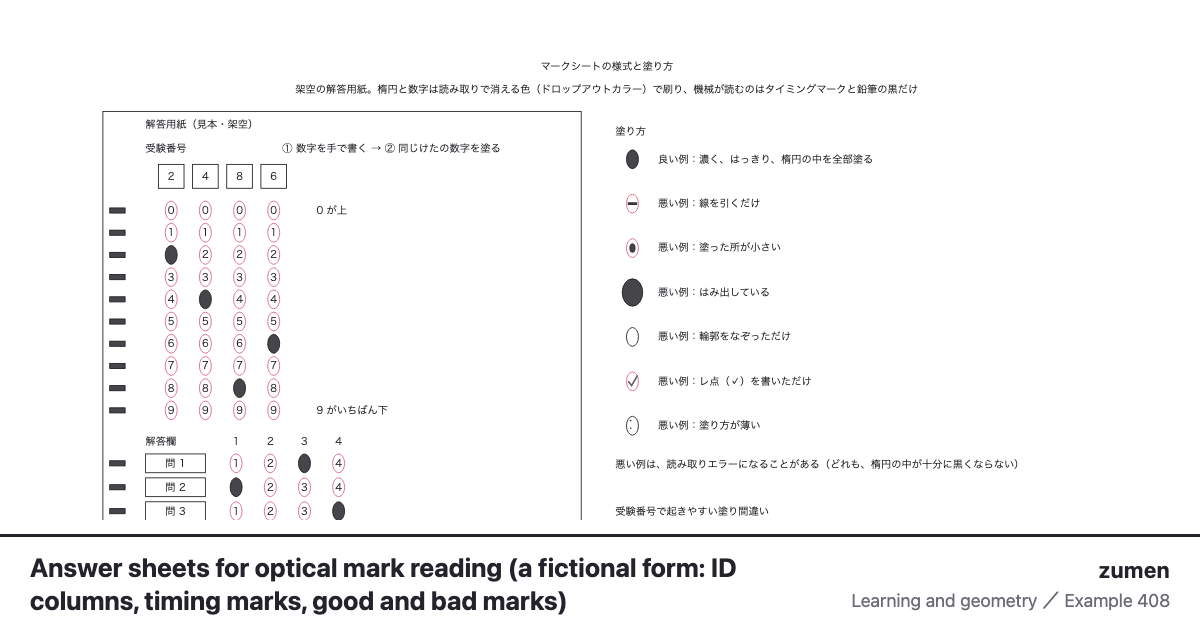
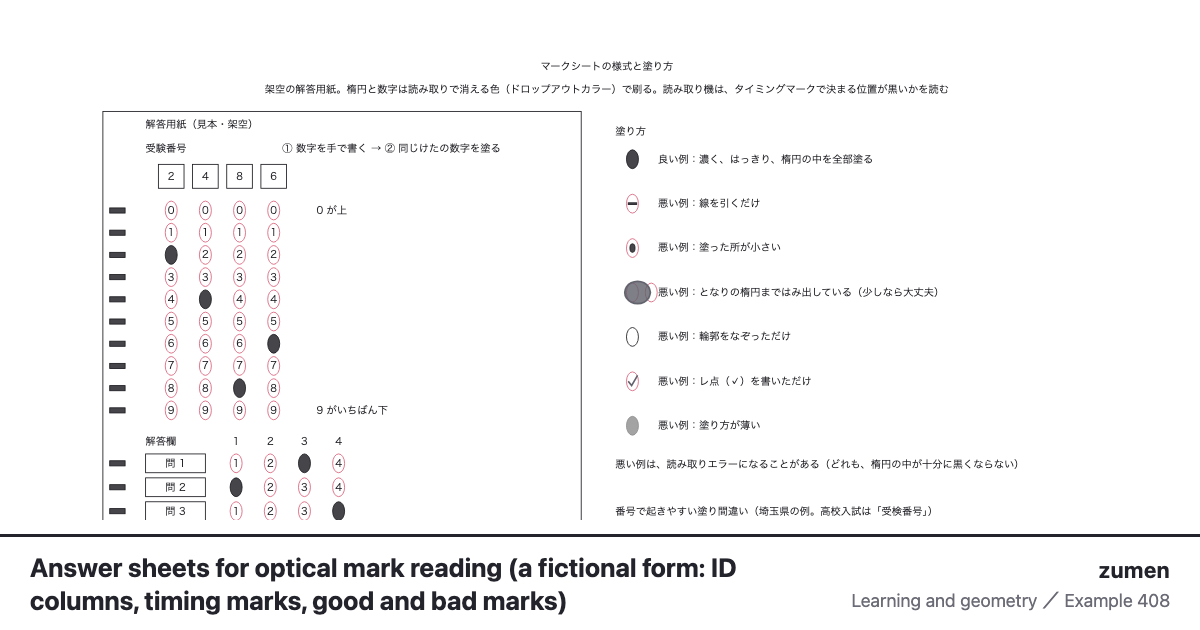
fix(見本): 408 を見直し —— シャープペンシルはマークに使わない・受検番号
共通テストはシャープペンシルをマークに使わない（メモ・計算のみ）。塗り間違い 4 例は埼玉県の
高校入試の「受検番号」の例と明記し、「別のけた」を原文どおりに。読み取り機が読むのはタイミングマークで
決まる位置の黒、はみ出しは隣の楕円まで（少しなら大丈夫：東京都）、薄いは灰色の塗り。
共通テストの受験番号は数字と英字を塗る行を足した。特許の出典から色の記述を外した。

Claude-Session: https://claude.ai/code/session_01SsuPBZV9YaAZ9NJNDHvP2H

diff --git a/site/all/index.html b/site/all/index.html
@@ -275,7 +275,7 @@
       <li data-name="400 大圏航路と等角航路（地図の直線は最短とは限らない） Tokyo to New York two ways on two projections: on Mercator the shortest great-circle route arcs up over Alaska while the constant-bearing rhumb line is straight; on an azimuthal equidistant map centred on Tokyo the great circle is the straight line and the rhumb line bends. About 10,850 km against 12,780 km. 学び・図学"><a href="../g/400/"><img src="../gallery/400-%E5%A4%A7%E5%9C%8F%E8%88%AA%E8%B7%AF%E3%81%A8%E7%AD%89%E8%A7%92%E8%88%AA%E8%B7%AF-%E6%9D%B1%E4%BA%AC%E3%81%8B%E3%82%89%E3%83%8B%E3%83%A5%E3%83%BC%E3%83%A8%E3%83%BC%E3%82%AF.svg" alt="東京からニューヨークへの 2 つの道を 2 つの図法で並べた図。左のメルカトル図法では、最短の大圏航路（赤）がアラスカの上まで北へ弧を描き、方位を一定に保つ等角航路（青の点線）がまっすぐな線になる。右の東京中心の正距方位図法では逆に、大圏航路が東京から引いた直線になり、等角航路が曲がる。5,000km・10,000km の距離の輪つき。下に長さ（約 10,850km と約 12,780km）と東京を出る向きの表" width="1089" height="828" loading="lazy" decoding="async"><span>大圏航路と等角航路（地図の直線は最短とは限らない）</span></a></li>
       <li data-name="402 時差の世界地図（経度の帯と、国が決めた時） Every 15 degrees of longitude is an hour, but clocks follow borders. Twenty cities from the IANA tz database sit on the nominal bands: Seoul keeps Japan's 135-degree time, all of China keeps +8, Kolkata +5:30 and Kathmandu +5:45, and Kiritimati and Apia lie east of 180 degrees yet keep +14 and +13, a whole day ahead of Pago Pago next door. 学び・図学"><a href="../g/402/"><img src="../gallery/402-%E6%99%82%E5%B7%AE%E3%81%AE%E4%B8%96%E7%95%8C%E5%9C%B0%E5%9B%B3-%E7%B5%8C%E5%BA%A6%E3%81%AE%E5%B8%AF%E3%81%A8%E5%9B%BD%E3%81%8C%E6%B1%BA%E3%82%81%E3%81%9F%E6%99%82.svg" alt="太平洋を真ん中に置いた世界地図に、経度 15° ごとの時差の帯（−2〜±12〜−3）を破線で引き、20 都市の実際の標準時を札で置いた図。経度どおりは白、国で決めて 1 時間以上ずれる所（ソウル・ラサ・マドリード・ホノルル）は青、30 分・45 分ずらす所（コルカタ +5:30・カトマンズ +5:45 など）は橙、経度 180° より東なのに日付が先の所（キリティマティ +14・アピア +13・チャタム +12:45）は紫。日本の標準時の東経 135° を赤い線で。下に都市ごとの経度・経度で決めた時差・標準時・夏時間・わけの表" width="1010" height="1082" loading="lazy" decoding="async"><span>時差の世界地図（経度の帯と、国が決めた時）</span></a></li>
       <li data-name="407 英検の級ごとの構成（2024 年度のリニューアルと、2025 年度の準 2 級プラス） All eight grades of EIKEN, the Japanese English test, as rows, with each part drawn to scale in minutes: reading and writing, then listening, then the interview (an optional speaking test for Grades 4 and 5), and the two writing tasks per grade. A table lists the 2024 changes: a second writing task (summary or e-mail), fewer reading questions, more time for Pre-2 and 3. 学び・図学"><a href="../g/407/"><img src="../gallery/407-%E8%8B%B1%E6%A4%9C%E3%81%AE%E7%B4%9A%E3%81%94%E3%81%A8%E3%81%AE%E6%A7%8B%E6%88%90.svg" alt="英検の 1 級から 5 級まで 8 つの級を行に並べ、一次試験の時間を横の長さ（1 分 4px）で描いた図。リーディング・ライティングの枠に続けてリスニングを点の地で、右に二次試験（3 級以上で一次に合格した人の英語での面接）を斜線で、4・5 級の任意のスピーキングテストを網目で、その右にライティングの 2 題（1 級〜準 2 級プラスは要約と意見論述、準 2 級と 3 級は E メールと意見論述）。2024 年度に形が変わった級に 2024、準 2 級プラスに 2025 の印。下に、2024 年度第 1 回から変わったこと（英作文が 2 題に、リーディングの問題数、準 2 級と 3 級の時間延長）の表" width="1344" height="1092" loading="lazy" decoding="async"><span>英検の級ごとの構成（2024 年度のリニューアルと、2025 年度の準 2 級プラス）</span></a></li>
-      <li data-name="408 マークシートの様式と塗り方（架空の解答用紙・タイミングマーク・良い例と悪い例） A fictional machine-read answer sheet. The ID is written in boxes and marked digit by digit, 0 at the top; answers are one oval per question; black timing marks down the edge let the reader count rows, while the ovals are printed in a dropout colour the reader ignores. Beside it: one good mark, six bad ones, common ID mistakes and the pencil rules of two exams. 学び・図学"><a href="../g/408/"><img src="../gallery/408-%E3%83%9E%E3%83%BC%E3%82%AF%E3%82%B7%E3%83%BC%E3%83%88%E3%81%AE%E6%A7%98%E5%BC%8F%E3%81%A8%E5%A1%97%E3%82%8A%E6%96%B9.svg" alt="架空のマークシートの解答用紙。左の用紙に、手で書いた受験番号 4 けたと、その下で同じけたの数字を塗る 0〜9 の縦の欄（0 が上、9 がいちばん下）、問 1〜8 の 1〜4 の楕円を並べ、左の縁に読み取り機が行を数える黒いタイミングマークを刷った。楕円と数字は読み取りで消えるドロップアウトカラーで刷り、塗った所だけが黒い。右に塗り方の良い例（楕円の中を濃く全部）と悪い例 6 つ（線だけ・小さい・はみ出し・輪郭だけ・レ点・薄い）、受験番号で起きやすい塗り間違い 4 つの表。下に、鉛筆と消しゴムの決まりを大学入学共通テストと埼玉県の公立高校入試で比べた表" width="1244" height="998" loading="lazy" decoding="async"><span>マークシートの様式と塗り方（架空の解答用紙・タイミングマーク・良い例と悪い例）</span></a></li>
+      <li data-name="408 マークシートの様式と塗り方（架空の解答用紙・タイミングマーク・良い例と悪い例） A fictional machine-read answer sheet. The ID is written in boxes and marked digit by digit, 0 at the top; answers are one oval per question; black timing marks down the edge let the reader count rows, while the ovals are printed in a dropout colour the reader ignores. Beside it: one good mark, six bad ones, common ID mistakes and the pencil rules of two exams. 学び・図学"><a href="../g/408/"><img src="../gallery/408-%E3%83%9E%E3%83%BC%E3%82%AF%E3%82%B7%E3%83%BC%E3%83%88%E3%81%AE%E6%A7%98%E5%BC%8F%E3%81%A8%E5%A1%97%E3%82%8A%E6%96%B9.svg" alt="架空のマークシートの解答用紙。左の用紙に、手で書いた受験番号 4 けたと、その下で同じけたの数字を塗る 0〜9 の縦の欄（0 が上、9 がいちばん下）、問 1〜8 の 1〜4 の楕円を並べ、左の縁に読み取り機が行を数える黒いタイミングマークを刷った。楕円と数字は読み取りで消えるドロップアウトカラーで刷り、塗った所だけが黒い。右に塗り方の良い例（楕円の中を濃く全部）と悪い例 6 つ（線だけ・小さい・はみ出し・輪郭だけ・レ点・薄い）、受験番号で起きやすい塗り間違い 4 つの表。下に、鉛筆と消しゴムの決まりを大学入学共通テストと埼玉県の公立高校入試で比べた表" width="1244" height="1038" loading="lazy" decoding="async"><span>マークシートの様式と塗り方（架空の解答用紙・タイミングマーク・良い例と悪い例）</span></a></li>
     </ul>
   </section>
   <section class="field" data-field="楽器・音響">

diff --git a/site/en/all/index.html b/site/en/all/index.html
@@ -275,7 +275,7 @@
       <li data-name="400 大圏航路と等角航路（地図の直線は最短とは限らない） Tokyo to New York two ways on two projections: on Mercator the shortest great-circle route arcs up over Alaska while the constant-bearing rhumb line is straight; on an azimuthal equidistant map centred on Tokyo the great circle is the straight line and the rhumb line bends. About 10,850 km against 12,780 km. Learning and geometry"><a href="../g/400/"><img src="../../gallery/400-%E5%A4%A7%E5%9C%8F%E8%88%AA%E8%B7%AF%E3%81%A8%E7%AD%89%E8%A7%92%E8%88%AA%E8%B7%AF-%E6%9D%B1%E4%BA%AC%E3%81%8B%E3%82%89%E3%83%8B%E3%83%A5%E3%83%BC%E3%83%A8%E3%83%BC%E3%82%AF.svg" alt="Tokyo to New York two ways on two projections: on Mercator the shortest great-circle route arcs up over Alaska while the constant-bearing rhumb line is straight; on an azimuthal equidistant map centred on Tokyo the great circle is the straight line and the rhumb line bends. About 10,850 km against 12,780 km." width="1089" height="828" loading="lazy" decoding="async"><span>Tokyo to New York two ways on two projections: on Mercator the shortest great-circle route arcs up over Alaska while the constant-bearing rhumb line is straight; on an azimuthal equidistant map centred on Tokyo the great circle is the straight line and the rhumb line bends. About 10,850 km against 12,780 km.</span></a></li>
       <li data-name="402 時差の世界地図（経度の帯と、国が決めた時） Every 15 degrees of longitude is an hour, but clocks follow borders. Twenty cities from the IANA tz database sit on the nominal bands: Seoul keeps Japan's 135-degree time, all of China keeps +8, Kolkata +5:30 and Kathmandu +5:45, and Kiritimati and Apia lie east of 180 degrees yet keep +14 and +13, a whole day ahead of Pago Pago next door. Learning and geometry"><a href="../g/402/"><img src="../../gallery/402-%E6%99%82%E5%B7%AE%E3%81%AE%E4%B8%96%E7%95%8C%E5%9C%B0%E5%9B%B3-%E7%B5%8C%E5%BA%A6%E3%81%AE%E5%B8%AF%E3%81%A8%E5%9B%BD%E3%81%8C%E6%B1%BA%E3%82%81%E3%81%9F%E6%99%82.svg" alt="Every 15 degrees of longitude is an hour, but clocks follow borders. Twenty cities from the IANA tz database sit on the nominal bands: Seoul keeps Japan's 135-degree time, all of China keeps +8, Kolkata +5:30 and Kathmandu +5:45, and Kiritimati and Apia lie east of 180 degrees yet keep +14 and +13, a whole day ahead of Pago Pago next door." width="1010" height="1082" loading="lazy" decoding="async"><span>Every 15 degrees of longitude is an hour, but clocks follow borders. Twenty cities from the IANA tz database sit on the nominal bands: Seoul keeps Japan's 135-degree time, all of China keeps +8, Kolkata +5:30 and Kathmandu +5:45, and Kiritimati and Apia lie east of 180 degrees yet keep +14 and +13, a whole day ahead of Pago Pago next door.</span></a></li>
       <li data-name="407 英検の級ごとの構成（2024 年度のリニューアルと、2025 年度の準 2 級プラス） All eight grades of EIKEN, the Japanese English test, as rows, with each part drawn to scale in minutes: reading and writing, then listening, then the interview (an optional speaking test for Grades 4 and 5), and the two writing tasks per grade. A table lists the 2024 changes: a second writing task (summary or e-mail), fewer reading questions, more time for Pre-2 and 3. Learning and geometry"><a href="../g/407/"><img src="../../gallery/407-%E8%8B%B1%E6%A4%9C%E3%81%AE%E7%B4%9A%E3%81%94%E3%81%A8%E3%81%AE%E6%A7%8B%E6%88%90.svg" alt="All eight grades of EIKEN, the Japanese English test, as rows, with each part drawn to scale in minutes: reading and writing, then listening, then the interview (an optional speaking test for Grades 4 and 5), and the two writing tasks per grade. A table lists the 2024 changes: a second writing task (summary or e-mail), fewer reading questions, more time for Pre-2 and 3." width="1344" height="1092" loading="lazy" decoding="async"><span>All eight grades of EIKEN, the Japanese English test, as rows, with each part drawn to scale in minutes: reading and writing, then listening, then the interview (an optional speaking test for Grades 4 and 5), and the two writing tasks per grade. A table lists the 2024 changes: a second writing task (summary or e-mail), fewer reading questions, more time for Pre-2 and 3.</span></a></li>
-      <li data-name="408 マークシートの様式と塗り方（架空の解答用紙・タイミングマーク・良い例と悪い例） A fictional machine-read answer sheet. The ID is written in boxes and marked digit by digit, 0 at the top; answers are one oval per question; black timing marks down the edge let the reader count rows, while the ovals are printed in a dropout colour the reader ignores. Beside it: one good mark, six bad ones, common ID mistakes and the pencil rules of two exams. Learning and geometry"><a href="../g/408/"><img src="../../gallery/408-%E3%83%9E%E3%83%BC%E3%82%AF%E3%82%B7%E3%83%BC%E3%83%88%E3%81%AE%E6%A7%98%E5%BC%8F%E3%81%A8%E5%A1%97%E3%82%8A%E6%96%B9.svg" alt="A fictional machine-read answer sheet. The ID is written in boxes and marked digit by digit, 0 at the top; answers are one oval per question; black timing marks down the edge let the reader count rows, while the ovals are printed in a dropout colour the reader ignores. Beside it: one good mark, six bad ones, common ID mistakes and the pencil rules of two exams." width="1244" height="998" loading="lazy" decoding="async"><span>A fictional machine-read answer sheet. The ID is written in boxes and marked digit by digit, 0 at the top; answers are one oval per question; black timing marks down the edge let the reader count rows, while the ovals are printed in a dropout colour the reader ignores. Beside it: one good mark, six bad ones, common ID mistakes and the pencil rules of two exams.</span></a></li>
+      <li data-name="408 マークシートの様式と塗り方（架空の解答用紙・タイミングマーク・良い例と悪い例） A fictional machine-read answer sheet. The ID is written in boxes and marked digit by digit, 0 at the top; answers are one oval per question; black timing marks down the edge let the reader count rows, while the ovals are printed in a dropout colour the reader ignores. Beside it: one good mark, six bad ones, common ID mistakes and the pencil rules of two exams. Learning and geometry"><a href="../g/408/"><img src="../../gallery/408-%E3%83%9E%E3%83%BC%E3%82%AF%E3%82%B7%E3%83%BC%E3%83%88%E3%81%AE%E6%A7%98%E5%BC%8F%E3%81%A8%E5%A1%97%E3%82%8A%E6%96%B9.svg" alt="A fictional machine-read answer sheet. The ID is written in boxes and marked digit by digit, 0 at the top; answers are one oval per question; black timing marks down the edge let the reader count rows, while the ovals are printed in a dropout colour the reader ignores. Beside it: one good mark, six bad ones, common ID mistakes and the pencil rules of two exams." width="1244" height="1038" loading="lazy" decoding="async"><span>A fictional machine-read answer sheet. The ID is written in boxes and marked digit by digit, 0 at the top; answers are one oval per question; black timing marks down the edge let the reader count rows, while the ovals are printed in a dropout colour the reader ignores. Beside it: one good mark, six bad ones, common ID mistakes and the pencil rules of two exams.</span></a></li>
     </ul>
   </section>
   <section class="field" data-field="Instruments and acoustics">

diff --git a/site/index.html b/site/index.html
@@ -347,7 +347,7 @@
     <figure data-wide data-cat="bosai"><picture><source srcset="gallery/106-雑踏警備計画図-dark.svg" media="(prefers-color-scheme: dark)"><img loading="lazy" decoding="async" width="1548" height="770" src="gallery/106-雑踏警備計画図.svg" alt="雑踏警備計画図（花火大会・駅から会場まで）"></picture><figcaption>雑踏警備計画図（流せる量と入ってくる量）</figcaption></figure>
     <h3 class="cat" data-cat="manabi"><a href="c/manabi/">学び・図学</a><span class="n">32</span></h3>
     <figure data-cat="manabi"><picture><source srcset="gallery/407-英検の級ごとの構成-dark.svg" media="(prefers-color-scheme: dark)"><img loading="lazy" decoding="async" width="1344" height="1092" src="gallery/407-英検の級ごとの構成.svg" alt="英検の 1 級から 5 級まで 8 つの級を行に並べ、一次試験の時間を横の長さ（1 分 4px）で描いた図。リーディング・ライティングの枠に続けてリスニングを点の地で、右に二次試験（3 級以上で一次に合格した人の英語での面接）を斜線で、4・5 級の任意のスピーキングテストを網目で、その右にライティングの 2 題（1 級〜準 2 級プラスは要約と意見論述、準 2 級と 3 級は E メールと意見論述）。2024 年度に形が変わった級に 2024、準 2 級プラスに 2025 の印。下に、2024 年度第 1 回から変わったこと（英作文が 2 題に、リーディングの問題数、準 2 級と 3 級の時間延長）の表"></picture><figcaption>英検の級ごとの構成（2024 年度のリニューアルと、2025 年度の準 2 級プラス）</figcaption></figure>
-    <figure data-cat="manabi"><picture><source srcset="gallery/408-マークシートの様式と塗り方-dark.svg" media="(prefers-color-scheme: dark)"><img loading="lazy" decoding="async" width="1244" height="998" src="gallery/408-マークシートの様式と塗り方.svg" alt="架空のマークシートの解答用紙。左の用紙に、手で書いた受験番号 4 けたと、その下で同じけたの数字を塗る 0〜9 の縦の欄（0 が上、9 がいちばん下）、問 1〜8 の 1〜4 の楕円を並べ、左の縁に読み取り機が行を数える黒いタイミングマークを刷った。楕円と数字は読み取りで消えるドロップアウトカラーで刷り、塗った所だけが黒い。右に塗り方の良い例（楕円の中を濃く全部）と悪い例 6 つ（線だけ・小さい・はみ出し・輪郭だけ・レ点・薄い）、受験番号で起きやすい塗り間違い 4 つの表。下に、鉛筆と消しゴムの決まりを大学入学共通テストと埼玉県の公立高校入試で比べた表"></picture><figcaption>マークシートの様式と塗り方（架空の解答用紙・タイミングマーク・良い例と悪い例）</figcaption></figure>
+    <figure data-cat="manabi"><picture><source srcset="gallery/408-マークシートの様式と塗り方-dark.svg" media="(prefers-color-scheme: dark)"><img loading="lazy" decoding="async" width="1244" height="1038" src="gallery/408-マークシートの様式と塗り方.svg" alt="架空のマークシートの解答用紙。左の用紙に、手で書いた受験番号 4 けたと、その下で同じけたの数字を塗る 0〜9 の縦の欄（0 が上、9 がいちばん下）、問 1〜8 の 1〜4 の楕円を並べ、左の縁に読み取り機が行を数える黒いタイミングマークを刷った。楕円と数字は読み取りで消えるドロップアウトカラーで刷り、塗った所だけが黒い。右に塗り方の良い例（楕円の中を濃く全部）と悪い例 6 つ（線だけ・小さい・はみ出し・輪郭だけ・レ点・薄い）、受験番号で起きやすい塗り間違い 4 つの表。下に、鉛筆と消しゴムの決まりを大学入学共通テストと埼玉県の公立高校入試で比べた表"></picture><figcaption>マークシートの様式と塗り方（架空の解答用紙・タイミングマーク・良い例と悪い例）</figcaption></figure>
     <figure data-cat="manabi"><picture><source srcset="gallery/402-時差の世界地図-経度の帯と国が決めた時-dark.svg" media="(prefers-color-scheme: dark)"><img loading="lazy" decoding="async" width="1010" height="1082" src="gallery/402-時差の世界地図-経度の帯と国が決めた時.svg" alt="太平洋を真ん中に置いた世界地図に、経度 15° ごとの時差の帯（−2〜±12〜−3）を破線で引き、20 都市の実際の標準時を札で置いた図。経度どおりは白、国で決めて 1 時間以上ずれる所（ソウル・ラサ・マドリード・ホノルル）は青、30 分・45 分ずらす所（コルカタ +5:30・カトマンズ +5:45 など）は橙、経度 180° より東なのに日付が先の所（キリティマティ +14・アピア +13・チャタム +12:45）は紫。日本の標準時の東経 135° を赤い線で。下に都市ごとの経度・経度で決めた時差・標準時・夏時間・わけの表"></picture><figcaption>時差の世界地図（経度の帯と、国が決めた時）</figcaption></figure>
     <figure data-cat="manabi"><picture><source srcset="gallery/400-大圏航路と等角航路-東京からニューヨーク-dark.svg" media="(prefers-color-scheme: dark)"><img loading="lazy" decoding="async" width="1089" height="828" src="gallery/400-大圏航路と等角航路-東京からニューヨーク.svg" alt="東京からニューヨークへの 2 つの道を 2 つの図法で並べた図。左のメルカトル図法では、最短の大圏航路（赤）がアラスカの上まで北へ弧を描き、方位を一定に保つ等角航路（青の点線）がまっすぐな線になる。右の東京中心の正距方位図法では逆に、大圏航路が東京から引いた直線になり、等角航路が曲がる。5,000km・10,000km の距離の輪つき。下に長さ（約 10,850km と約 12,780km）と東京を出る向きの表"></picture><figcaption>大圏航路と等角航路（地図の直線は最短とは限らない）</figcaption></figure>
     <figure data-cat="manabi"><picture><source srcset="gallery/376-水面の波の干渉-線の本数-dark.svg" media="(prefers-color-scheme: dark)"><img loading="lazy" decoding="async" width="1396" height="1300" src="gallery/376-水面の波の干渉-線の本数.svg" alt="同じ波を出す 2 つの波源から広がる山と谷の円と、強め合う線（腹線）5 本・弱め合う線（節線）4 本を双曲線で描いた水面の干渉の図。距離の差が波長の整数倍で強め合い、半端で弱め合うことと、線の本数が波源の間隔と波長の比で決まること（d＝2.4λ で 5 本）を表と数直線で示している"></picture><figcaption>水面の波の干渉（線の本数は、波源の間隔と波長で決まる）</figcaption></figure>

diff --git a/site/en/index.html b/site/en/index.html
@@ -320,7 +320,7 @@
     <figure data-wide data-cat="bosai"><picture><source srcset="../gallery/106-雑踏警備計画図-dark.svg" media="(prefers-color-scheme: dark)"><img loading="lazy" decoding="async" width="1548" height="770" src="../gallery/106-雑踏警備計画図.svg" alt="Crowd plan: how many can flow out against how many come in"></picture><figcaption>Crowd plan: how many can flow out against how many come in</figcaption></figure>
     <h3 class="cat" data-cat="manabi"><a href="c/manabi/">Learning and geometry</a><span class="n">32</span></h3>
     <figure data-cat="manabi"><picture><source srcset="../gallery/407-英検の級ごとの構成-dark.svg" media="(prefers-color-scheme: dark)"><img loading="lazy" decoding="async" width="1344" height="1092" src="../gallery/407-英検の級ごとの構成.svg" alt="All eight grades of EIKEN, the Japanese English test, as rows, with each part drawn to scale in minutes: reading and writing, then listening, then the interview (an optional speaking test for Grades 4 and 5), and the two writing tasks per grade. A table lists the 2024 changes: a second writing task (summary or e-mail), fewer reading questions, more time for Pre-2 and 3."></picture><figcaption>All eight grades of EIKEN, the Japanese English test, as rows, with each part drawn to scale in minutes: reading and writing, then listening, then the interview (an optional speaking test for Grades 4 and 5), and the two writing tasks per grade. A table lists the 2024 changes: a second writing task (summary or e-mail), fewer reading questions, more time for Pre-2 and 3.</figcaption></figure>
-    <figure data-cat="manabi"><picture><source srcset="../gallery/408-マークシートの様式と塗り方-dark.svg" media="(prefers-color-scheme: dark)"><img loading="lazy" decoding="async" width="1244" height="998" src="../gallery/408-マークシートの様式と塗り方.svg" alt="A fictional machine-read answer sheet. The ID is written in boxes and marked digit by digit, 0 at the top; answers are one oval per question; black timing marks down the edge let the reader count rows, while the ovals are printed in a dropout colour the reader ignores. Beside it: one good mark, six bad ones, common ID mistakes and the pencil rules of two exams."></picture><figcaption>A fictional machine-read answer sheet. The ID is written in boxes and marked digit by digit, 0 at the top; answers are one oval per question; black timing marks down the edge let the reader count rows, while the ovals are printed in a dropout colour the reader ignores. Beside it: one good mark, six bad ones, common ID mistakes and the pencil rules of two exams.</figcaption></figure>
+    <figure data-cat="manabi"><picture><source srcset="../gallery/408-マークシートの様式と塗り方-dark.svg" media="(prefers-color-scheme: dark)"><img loading="lazy" decoding="async" width="1244" height="1038" src="../gallery/408-マークシートの様式と塗り方.svg" alt="A fictional machine-read answer sheet. The ID is written in boxes and marked digit by digit, 0 at the top; answers are one oval per question; black timing marks down the edge let the reader count rows, while the ovals are printed in a dropout colour the reader ignores. Beside it: one good mark, six bad ones, common ID mistakes and the pencil rules of two exams."></picture><figcaption>A fictional machine-read answer sheet. The ID is written in boxes and marked digit by digit, 0 at the top; answers are one oval per question; black timing marks down the edge let the reader count rows, while the ovals are printed in a dropout colour the reader ignores. Beside it: one good mark, six bad ones, common ID mistakes and the pencil rules of two exams.</figcaption></figure>
     <figure data-cat="manabi"><picture><source srcset="../gallery/402-時差の世界地図-経度の帯と国が決めた時-dark.svg" media="(prefers-color-scheme: dark)"><img loading="lazy" decoding="async" width="1010" height="1082" src="../gallery/402-時差の世界地図-経度の帯と国が決めた時.svg" alt="Every 15 degrees of longitude is an hour, but clocks follow borders. Twenty cities from the IANA tz database sit on the nominal bands: Seoul keeps Japan's 135-degree time, all of China keeps +8, Kolkata +5:30 and Kathmandu +5:45, and Kiritimati and Apia lie east of 180 degrees yet keep +14 and +13, a whole day ahead of Pago Pago next door."></picture><figcaption>Every 15 degrees of longitude is an hour, but clocks follow borders. Twenty cities from the IANA tz database sit on the nominal bands: Seoul keeps Japan's 135-degree time, all of China keeps +8, Kolkata +5:30 and Kathmandu +5:45, and Kiritimati and Apia lie east of 180 degrees yet keep +14 and +13, a whole day ahead of Pago Pago next door.</figcaption></figure>
     <figure data-cat="manabi"><picture><source srcset="../gallery/400-大圏航路と等角航路-東京からニューヨーク-dark.svg" media="(prefers-color-scheme: dark)"><img loading="lazy" decoding="async" width="1089" height="828" src="../gallery/400-大圏航路と等角航路-東京からニューヨーク.svg" alt="Tokyo to New York two ways on two projections: on Mercator the shortest great-circle route arcs up over Alaska while the constant-bearing rhumb line is straight; on an azimuthal equidistant map centred on Tokyo the great circle is the straight line and the rhumb line bends. About 10,850 km against 12,780 km."></picture><figcaption>Tokyo to New York two ways on two projections: on Mercator the shortest great-circle route arcs up over Alaska while the constant-bearing rhumb line is straight; on an azimuthal equidistant map centred on Tokyo the great circle is the straight line and the rhumb line bends. About 10,850 km against 12,780 km.</figcaption></figure>
     <figure data-cat="manabi"><picture><source srcset="../gallery/376-水面の波の干渉-線の本数-dark.svg" media="(prefers-color-scheme: dark)"><img loading="lazy" decoding="async" width="1396" height="1300" src="../gallery/376-水面の波の干渉-線の本数.svg" alt="Two-source interference on water: crests and troughs from two sources in step, with five lines of reinforcement and four of cancellation drawn as hyperbolas. The path difference can never exceed the source spacing, so the number of lines is fixed by spacing divided by wavelength"></picture><figcaption>Two-source interference on water: crests and troughs from two sources in step, with five lines of reinforcement and four of cancellation drawn as hyperbolas. The path difference can never exceed the source spacing, so the number of lines is fixed by spacing divided by wavelength</figcaption></figure>

diff --git a/site/c/manabi/index.html b/site/c/manabi/index.html
@@ -305,7 +305,7 @@
     <li><a href="../../g/400/"><img src="../../gallery/400-%E5%A4%A7%E5%9C%8F%E8%88%AA%E8%B7%AF%E3%81%A8%E7%AD%89%E8%A7%92%E8%88%AA%E8%B7%AF-%E6%9D%B1%E4%BA%AC%E3%81%8B%E3%82%89%E3%83%8B%E3%83%A5%E3%83%BC%E3%83%A8%E3%83%BC%E3%82%AF.svg" alt="東京からニューヨークへの 2 つの道を 2 つの図法で並べた図。左のメルカトル図法では、最短の大圏航路（赤）がアラスカの上まで北へ弧を描き、方位を一定に保つ等角航路（青の点線）がまっすぐな線になる。右の東京中心の正距方位図法では逆に、大圏航路が東京から引いた直線になり、等角航路が曲がる。5,000km・10,000km の距離の輪つき。下に長さ（約 10,850km と約 12,780km）と東京を出る向きの表" width="1089" height="828" loading="lazy" decoding="async"><span>大圏航路と等角航路（地図の直線は最短とは限らない）</span></a></li>
     <li><a href="../../g/402/"><img src="../../gallery/402-%E6%99%82%E5%B7%AE%E3%81%AE%E4%B8%96%E7%95%8C%E5%9C%B0%E5%9B%B3-%E7%B5%8C%E5%BA%A6%E3%81%AE%E5%B8%AF%E3%81%A8%E5%9B%BD%E3%81%8C%E6%B1%BA%E3%82%81%E3%81%9F%E6%99%82.svg" alt="太平洋を真ん中に置いた世界地図に、経度 15° ごとの時差の帯（−2〜±12〜−3）を破線で引き、20 都市の実際の標準時を札で置いた図。経度どおりは白、国で決めて 1 時間以上ずれる所（ソウル・ラサ・マドリード・ホノルル）は青、30 分・45 分ずらす所（コルカタ +5:30・カトマンズ +5:45 など）は橙、経度 180° より東なのに日付が先の所（キリティマティ +14・アピア +13・チャタム +12:45）は紫。日本の標準時の東経 135° を赤い線で。下に都市ごとの経度・経度で決めた時差・標準時・夏時間・わけの表" width="1010" height="1082" loading="lazy" decoding="async"><span>時差の世界地図（経度の帯と、国が決めた時）</span></a></li>
     <li><a href="../../g/407/"><img src="../../gallery/407-%E8%8B%B1%E6%A4%9C%E3%81%AE%E7%B4%9A%E3%81%94%E3%81%A8%E3%81%AE%E6%A7%8B%E6%88%90.svg" alt="英検の 1 級から 5 級まで 8 つの級を行に並べ、一次試験の時間を横の長さ（1 分 4px）で描いた図。リーディング・ライティングの枠に続けてリスニングを点の地で、右に二次試験（3 級以上で一次に合格した人の英語での面接）を斜線で、4・5 級の任意のスピーキングテストを網目で、その右にライティングの 2 題（1 級〜準 2 級プラスは要約と意見論述、準 2 級と 3 級は E メールと意見論述）。2024 年度に形が変わった級に 2024、準 2 級プラスに 2025 の印。下に、2024 年度第 1 回から変わったこと（英作文が 2 題に、リーディングの問題数、準 2 級と 3 級の時間延長）の表" width="1344" height="1092" loading="lazy" decoding="async"><span>英検の級ごとの構成（2024 年度のリニューアルと、2025 年度の準 2 級プラス）</span></a></li>
-    <li><a href="../../g/408/"><img src="../../gallery/408-%E3%83%9E%E3%83%BC%E3%82%AF%E3%82%B7%E3%83%BC%E3%83%88%E3%81%AE%E6%A7%98%E5%BC%8F%E3%81%A8%E5%A1%97%E3%82%8A%E6%96%B9.svg" alt="架空のマークシートの解答用紙。左の用紙に、手で書いた受験番号 4 けたと、その下で同じけたの数字を塗る 0〜9 の縦の欄（0 が上、9 がいちばん下）、問 1〜8 の 1〜4 の楕円を並べ、左の縁に読み取り機が行を数える黒いタイミングマークを刷った。楕円と数字は読み取りで消えるドロップアウトカラーで刷り、塗った所だけが黒い。右に塗り方の良い例（楕円の中を濃く全部）と悪い例 6 つ（線だけ・小さい・はみ出し・輪郭だけ・レ点・薄い）、受験番号で起きやすい塗り間違い 4 つの表。下に、鉛筆と消しゴムの決まりを大学入学共通テストと埼玉県の公立高校入試で比べた表" width="1244" height="998" loading="lazy" decoding="async"><span>マークシートの様式と塗り方（架空の解答用紙・タイミングマーク・良い例と悪い例）</span></a></li>
+    <li><a href="../../g/408/"><img src="../../gallery/408-%E3%83%9E%E3%83%BC%E3%82%AF%E3%82%B7%E3%83%BC%E3%83%88%E3%81%AE%E6%A7%98%E5%BC%8F%E3%81%A8%E5%A1%97%E3%82%8A%E6%96%B9.svg" alt="架空のマークシートの解答用紙。左の用紙に、手で書いた受験番号 4 けたと、その下で同じけたの数字を塗る 0〜9 の縦の欄（0 が上、9 がいちばん下）、問 1〜8 の 1〜4 の楕円を並べ、左の縁に読み取り機が行を数える黒いタイミングマークを刷った。楕円と数字は読み取りで消えるドロップアウトカラーで刷り、塗った所だけが黒い。右に塗り方の良い例（楕円の中を濃く全部）と悪い例 6 つ（線だけ・小さい・はみ出し・輪郭だけ・レ点・薄い）、受験番号で起きやすい塗り間違い 4 つの表。下に、鉛筆と消しゴムの決まりを大学入学共通テストと埼玉県の公立高校入試で比べた表" width="1244" height="1038" loading="lazy" decoding="async"><span>マークシートの様式と塗り方（架空の解答用紙・タイミングマーク・良い例と悪い例）</span></a></li>
   </ul>
 </article>
 </main>

diff --git a/site/en/c/manabi/index.html b/site/en/c/manabi/index.html
@@ -305,7 +305,7 @@
     <li><a href="../../../g/400/"><img src="../../../gallery/400-%E5%A4%A7%E5%9C%8F%E8%88%AA%E8%B7%AF%E3%81%A8%E7%AD%89%E8%A7%92%E8%88%AA%E8%B7%AF-%E6%9D%B1%E4%BA%AC%E3%81%8B%E3%82%89%E3%83%8B%E3%83%A5%E3%83%BC%E3%83%A8%E3%83%BC%E3%82%AF.svg" alt="Tokyo to New York two ways on two projections: on Mercator the shortest great-circle route arcs up over Alaska while the constant-bearing rhumb line is straight; on an azimuthal equidistant map centred on Tokyo the great circle is the straight line and the rhumb line bends. About 10,850 km against 12,780 km." width="1089" height="828" loading="lazy" decoding="async"><span>Tokyo to New York two ways on two projections: on Mercator the shortest great-circle route arcs up over Alaska while the constant-bearing rhumb line is straight; on an azimuthal equidistant map centred on Tokyo the great circle is the straight line and the rhumb line bends. About 10,850 km against 12,780 km.</span></a></li>
     <li><a href="../../../g/402/"><img src="../../../gallery/402-%E6%99%82%E5%B7%AE%E3%81%AE%E4%B8%96%E7%95%8C%E5%9C%B0%E5%9B%B3-%E7%B5%8C%E5%BA%A6%E3%81%AE%E5%B8%AF%E3%81%A8%E5%9B%BD%E3%81%8C%E6%B1%BA%E3%82%81%E3%81%9F%E6%99%82.svg" alt="Every 15 degrees of longitude is an hour, but clocks follow borders. Twenty cities from the IANA tz database sit on the nominal bands: Seoul keeps Japan's 135-degree time, all of China keeps +8, Kolkata +5:30 and Kathmandu +5:45, and Kiritimati and Apia lie east of 180 degrees yet keep +14 and +13, a whole day ahead of Pago Pago next door." width="1010" height="1082" loading="lazy" decoding="async"><span>Every 15 degrees of longitude is an hour, but clocks follow borders. Twenty cities from the IANA tz database sit on the nominal bands: Seoul keeps Japan's 135-degree time, all of China keeps +8, Kolkata +5:30 and Kathmandu +5:45, and Kiritimati and Apia lie east of 180 degrees yet keep +14 and +13, a whole day ahead of Pago Pago next door.</span></a></li>
     <li><a href="../../../g/407/"><img src="../../../gallery/407-%E8%8B%B1%E6%A4%9C%E3%81%AE%E7%B4%9A%E3%81%94%E3%81%A8%E3%81%AE%E6%A7%8B%E6%88%90.svg" alt="All eight grades of EIKEN, the Japanese English test, as rows, with each part drawn to scale in minutes: reading and writing, then listening, then the interview (an optional speaking test for Grades 4 and 5), and the two writing tasks per grade. A table lists the 2024 changes: a second writing task (summary or e-mail), fewer reading questions, more time for Pre-2 and 3." width="1344" height="1092" loading="lazy" decoding="async"><span>All eight grades of EIKEN, the Japanese English test, as rows, with each part drawn to scale in minutes: reading and writing, then listening, then the interview (an optional speaking test for Grades 4 and 5), and the two writing tasks per grade. A table lists the 2024 changes: a second writing task (summary or e-mail), fewer reading questions, more time for Pre-2 and 3.</span></a></li>
-    <li><a href="../../../g/408/"><img src="../../../gallery/408-%E3%83%9E%E3%83%BC%E3%82%AF%E3%82%B7%E3%83%BC%E3%83%88%E3%81%AE%E6%A7%98%E5%BC%8F%E3%81%A8%E5%A1%97%E3%82%8A%E6%96%B9.svg" alt="A fictional machine-read answer sheet. The ID is written in boxes and marked digit by digit, 0 at the top; answers are one oval per question; black timing marks down the edge let the reader count rows, while the ovals are printed in a dropout colour the reader ignores. Beside it: one good mark, six bad ones, common ID mistakes and the pencil rules of two exams." width="1244" height="998" loading="lazy" decoding="async"><span>A fictional machine-read answer sheet. The ID is written in boxes and marked digit by digit, 0 at the top; answers are one oval per question; black timing marks down the edge let the reader count rows, while the ovals are printed in a dropout colour the reader ignores. Beside it: one good mark, six bad ones, common ID mistakes and the pencil rules of two exams.</span></a></li>
+    <li><a href="../../../g/408/"><img src="../../../gallery/408-%E3%83%9E%E3%83%BC%E3%82%AF%E3%82%B7%E3%83%BC%E3%83%88%E3%81%AE%E6%A7%98%E5%BC%8F%E3%81%A8%E5%A1%97%E3%82%8A%E6%96%B9.svg" alt="A fictional machine-read answer sheet. The ID is written in boxes and marked digit by digit, 0 at the top; answers are one oval per question; black timing marks down the edge let the reader count rows, while the ovals are printed in a dropout colour the reader ignores. Beside it: one good mark, six bad ones, common ID mistakes and the pencil rules of two exams." width="1244" height="1038" loading="lazy" decoding="async"><span>A fictional machine-read answer sheet. The ID is written in boxes and marked digit by digit, 0 at the top; answers are one oval per question; black timing marks down the edge let the reader count rows, while the ovals are printed in a dropout colour the reader ignores. Beside it: one good mark, six bad ones, common ID mistakes and the pencil rules of two exams.</span></a></li>
   </ul>
 </article>
 </main>

diff --git a/site/g/408/index.html b/site/g/408/index.html
@@ -110,7 +110,7 @@
   </figure>
   <p class="made">この図は、下の 1 枚の YAML から描かれています。手で図形を動かしてはいません。</p>
   <h2>正本に書いてある決まりごと</h2>
-  <p><strong>人が読む色と、機械が読む黒を分けて刷る。</strong> 楕円と数字はドロップアウトカラー（読み取りで消える）、タイミングマークと鉛筆の黒だけが機械に見える。</p>
+  <p><strong>人が読む色と、機械が読む黒を分けて刷る。</strong> 楕円と数字はドロップアウトカラー（読み取りで消える）、読み取り機は、タイミングマークで決まる位置の黒を読む。</p>
   <p>決まり（取得 2026-11-05）——受験番号は左から手で書き、その下の同じけたの数字を塗る。マーク欄は 0 が上、9 が下（埼玉県教育委員会）。鉛筆は試験ごとに決まる：大学入学共通テストは黒鉛筆 H・F・HB のみ、埼玉県の公立高校は HB または B（シャープペンシル可）。用紙は架空。実在の試験の解答用紙の写しではない。</p>
   <h2>正本（YAML）</h2>
   <p><a href="https://github.com/meta-taro/zumen/blob/main/examples/gallery/408-%E3%83%9E%E3%83%BC%E3%82%AF%E3%82%B7%E3%83%BC%E3%83%88%E3%81%AE%E6%A7%98%E5%BC%8F%E3%81%A8%E5%A1%97%E3%82%8A%E6%96%B9.zumen.yaml"><code>examples/gallery/408-マークシートの様式と塗り方.zumen.yaml</code></a></p>

diff --git a/site/en/g/408/index.html b/site/en/g/408/index.html
@@ -111,7 +111,7 @@
   <p class="made">This drawing comes from one YAML file. No shape was moved by hand.</p>
   <h2>Notes in the source (in Japanese)</h2>
   <div lang="ja">
-  <p><strong>人が読む色と、機械が読む黒を分けて刷る。</strong> 楕円と数字はドロップアウトカラー（読み取りで消える）、タイミングマークと鉛筆の黒だけが機械に見える。</p>
+  <p><strong>人が読む色と、機械が読む黒を分けて刷る。</strong> 楕円と数字はドロップアウトカラー（読み取りで消える）、読み取り機は、タイミングマークで決まる位置の黒を読む。</p>
   <p>決まり（取得 2026-11-05）——受験番号は左から手で書き、その下の同じけたの数字を塗る。マーク欄は 0 が上、9 が下（埼玉県教育委員会）。鉛筆は試験ごとに決まる：大学入学共通テストは黒鉛筆 H・F・HB のみ、埼玉県の公立高校は HB または B（シャープペンシル可）。用紙は架空。実在の試験の解答用紙の写しではない。</p>
   </div>
   <h2>Source (YAML)</h2>
